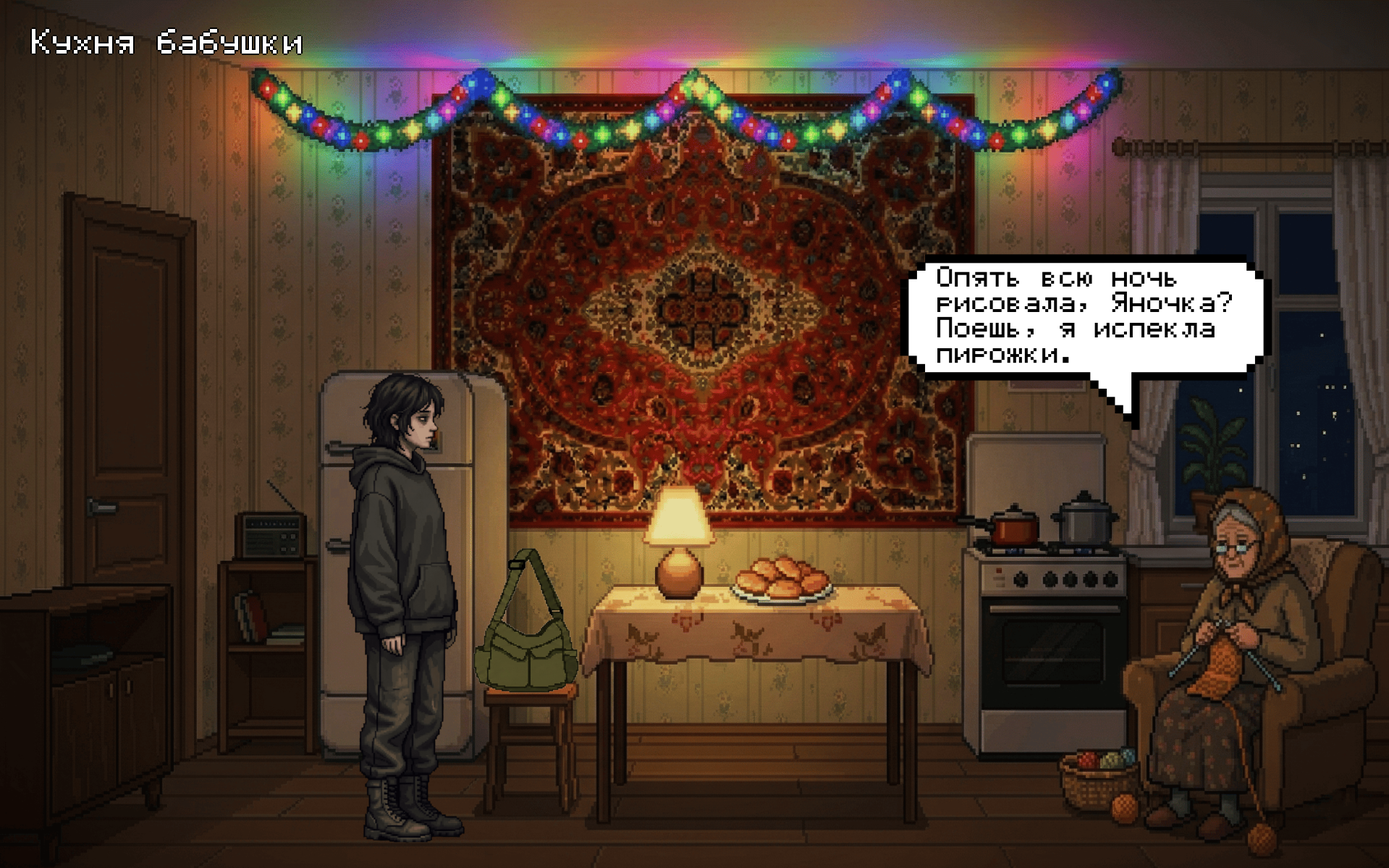
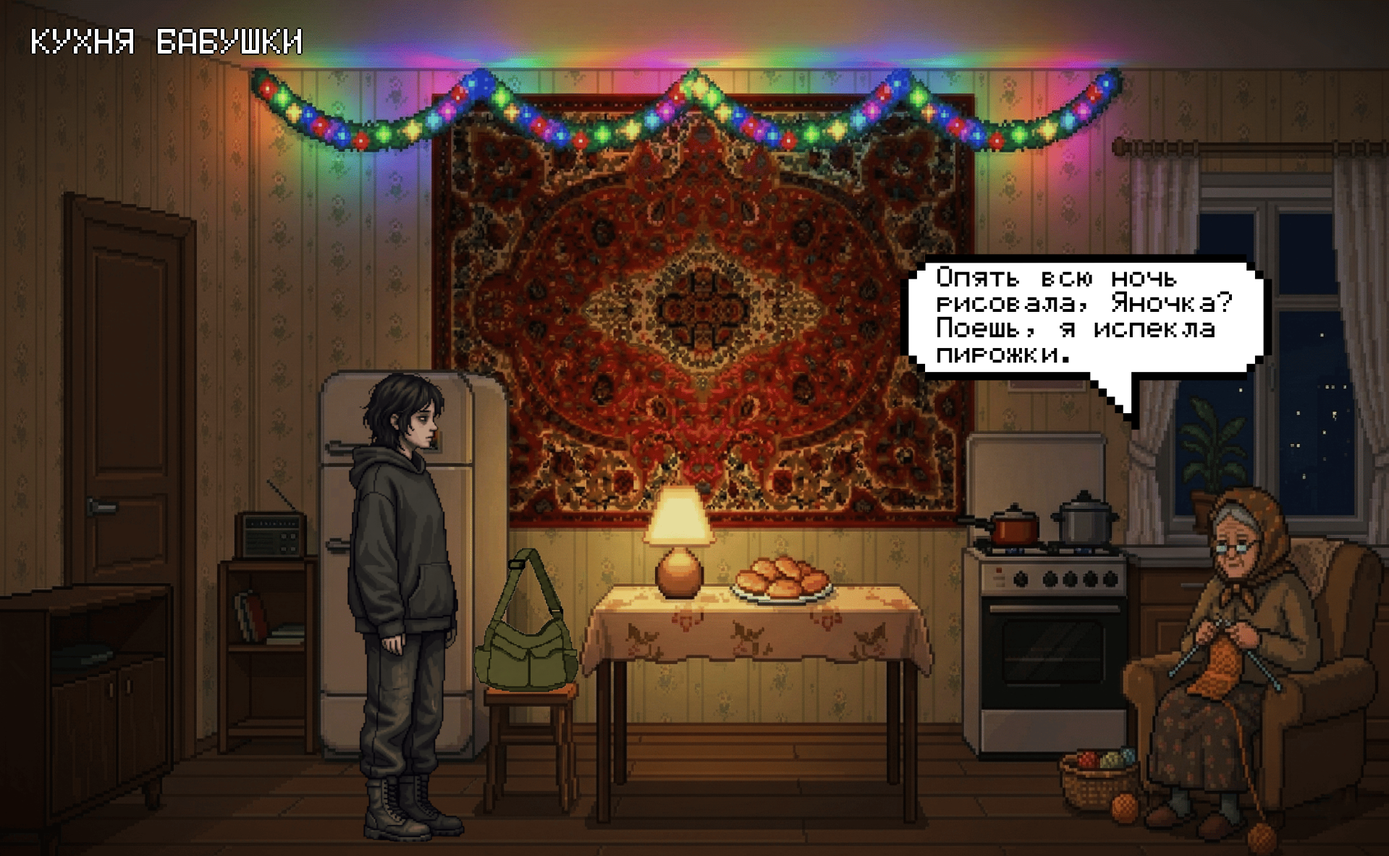
Смена стиля названия 1й локации

diff --git a/src/Rendering/GameRenderer.UI.cs b/src/Rendering/GameRenderer.UI.cs
@@ -30,7 +30,7 @@ namespace LikhoStation.src.Rendering
             var screenHeight = GameController.VirtualHeight;
             var locColor = Brushes.White;
 
-            if (level.Name == "Kitchen") DrawKitchenUI(g, level, camX, camY);
+            if (level.Name == "Kitchen") DrawOutlineText(g, "КУХНЯ БАБУШКИ", uiFont, locColor, 40, 40);
             else if (level.Name == "Street") DrawOutlineText(g, "УЛИЦА", uiFont, locColor, 40, 40);
             else if (level.Name == "SubwayDescent") DrawOutlineText(g, "СПУСК В МЕТРО", uiFont, locColor, 40, 40);
             else if (level.Name == "AbandonedTrain") DrawOutlineText(g, "ЗАБРОШЕННЫЙ ПОЕЗД", uiFont, locColor, 40, 40);
@@ -183,18 +183,6 @@ namespace LikhoStation.src.Rendering
             }
 
             return new Rectangle(posX, posY, drawW, drawH);
-        }
-
-        /// <summary>
-        /// Специфические подсказки для кухни (например, «Взять сумку»).
-        /// </summary>
-        /// <param name="g"></param>
-        /// <param name="level"></param>
-        /// <param name="camX"></param>
-        /// <param name="camY"></param>
-        private void DrawKitchenUI(Graphics g, Level level, float camX, float camY)
-        {
-            DrawOutlineText(g, "Кухня бабушки", new Font(pixelFont, 12), Brushes.White, 40, 40);
         }
 
         /// <summary>
